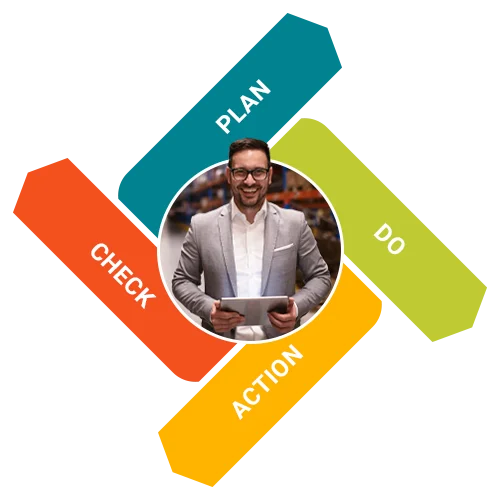
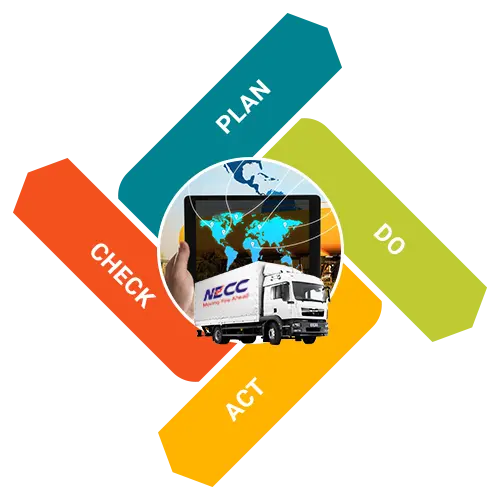
changed vision img

Changed region(s): [[0.3, 0.27, 0.69, 0.84]]

diff --git a/frontend/src/components/VisionAndQualityPolicyInner.js b/frontend/src/components/VisionAndQualityPolicyInner.js
@@ -27,7 +27,7 @@ const VisionAndQualityPolicyInner= () => {
             </div>
             <div className='col-lg-5 align-self-center pd-top-120 order-lg-1'>
                     <div className='thumb mb-lg-0 mb-4'>
-                      <img src='/assets/img/service-1/vision and quality/vision-2 (1).webp' alt='Transpro' />
+                      <img src='/assets/img/service-1/vision and quality/vision-2.webp' alt='Transpro' />
                     </div>
                   </div>
           </div>

diff --git a/frontend/src/components/TermsInner.js b/frontend/src/components/TermsInner.js
@@ -6,7 +6,7 @@ const TermsInner = () => {
       <div className="container">
         <div className="row justify-content-center">
           <div className="col-lg-12">
-            <div className="service-details-wrap">
+            <div className="service-details-wrap" style={{textAlign:"justify"}}>
               <h2>TERMS & CONDITIONS OF CARRIAGE</h2>
               <h6 className="subtitle CorporateInformation">
                 Carrier’s Risk or Owner’s Risk
